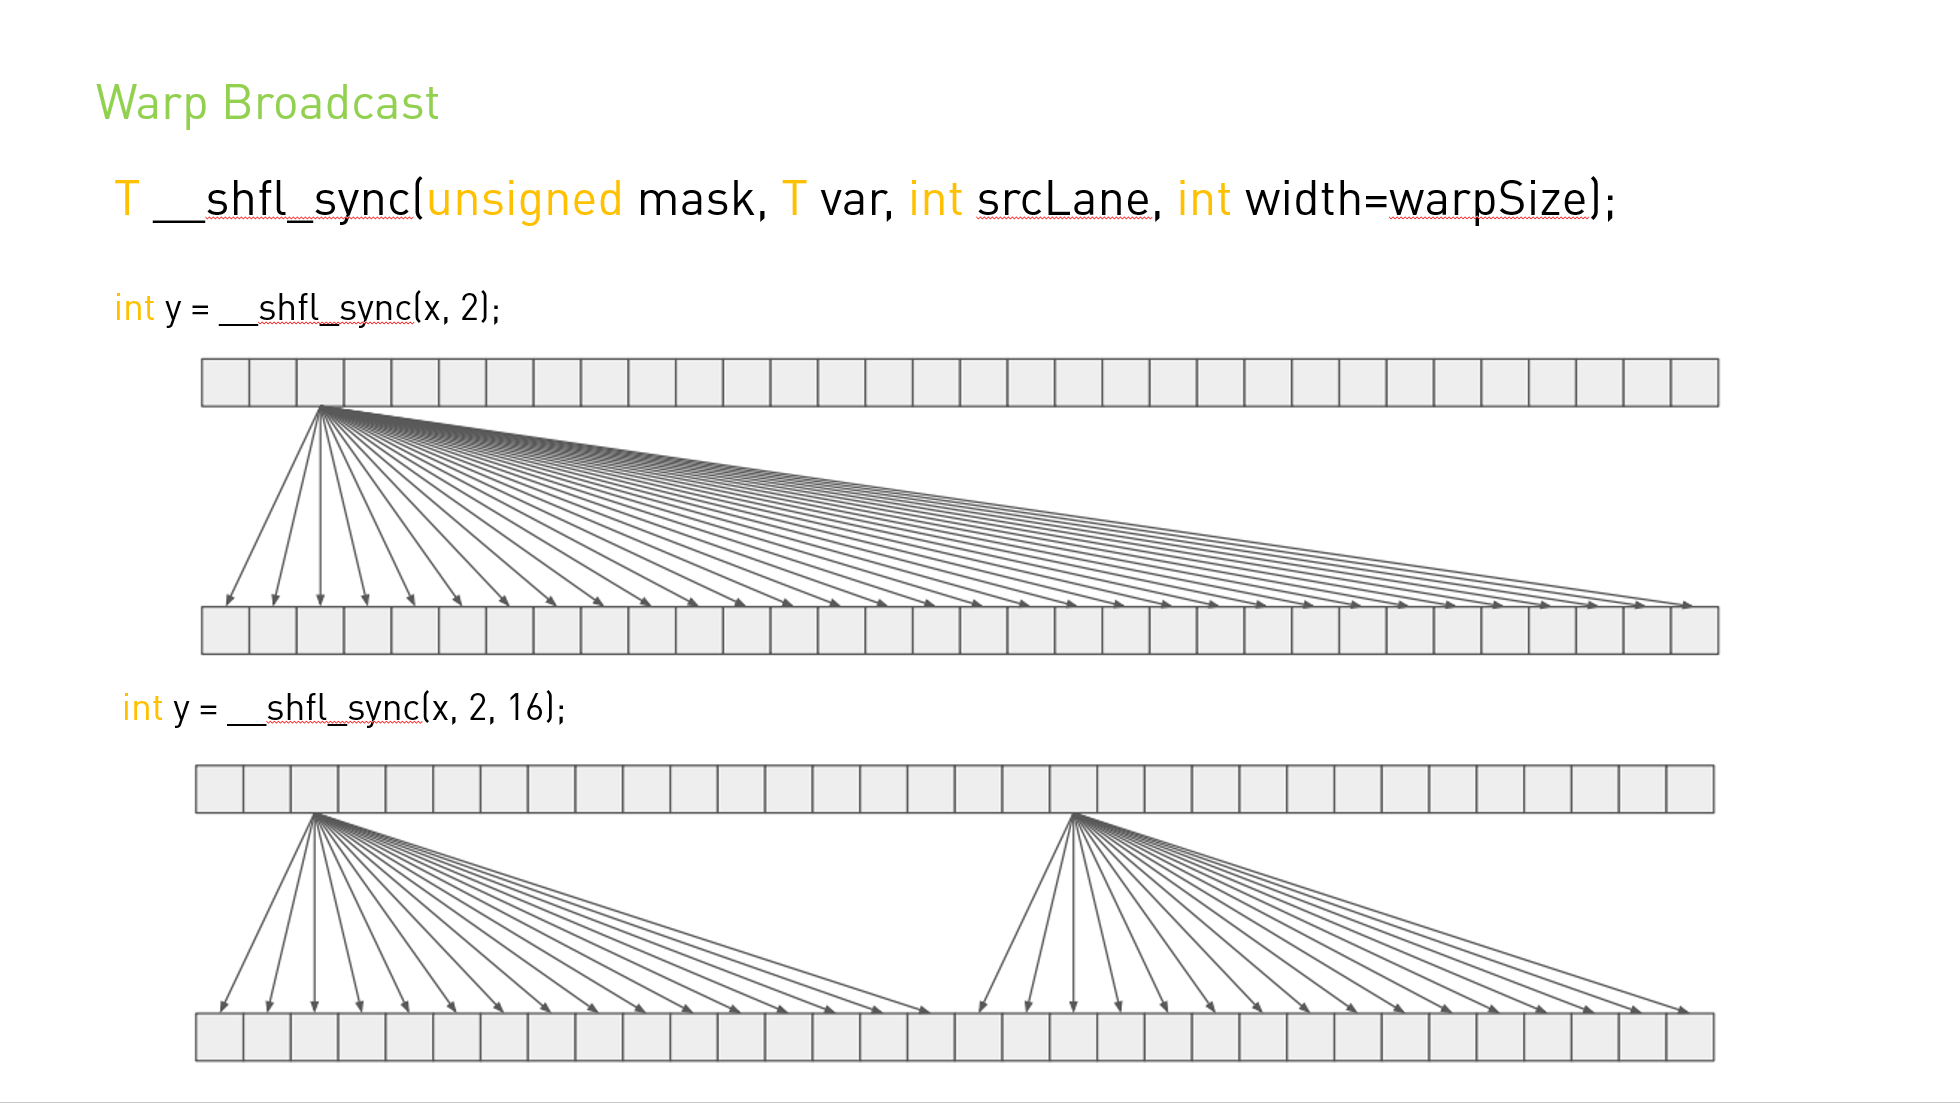
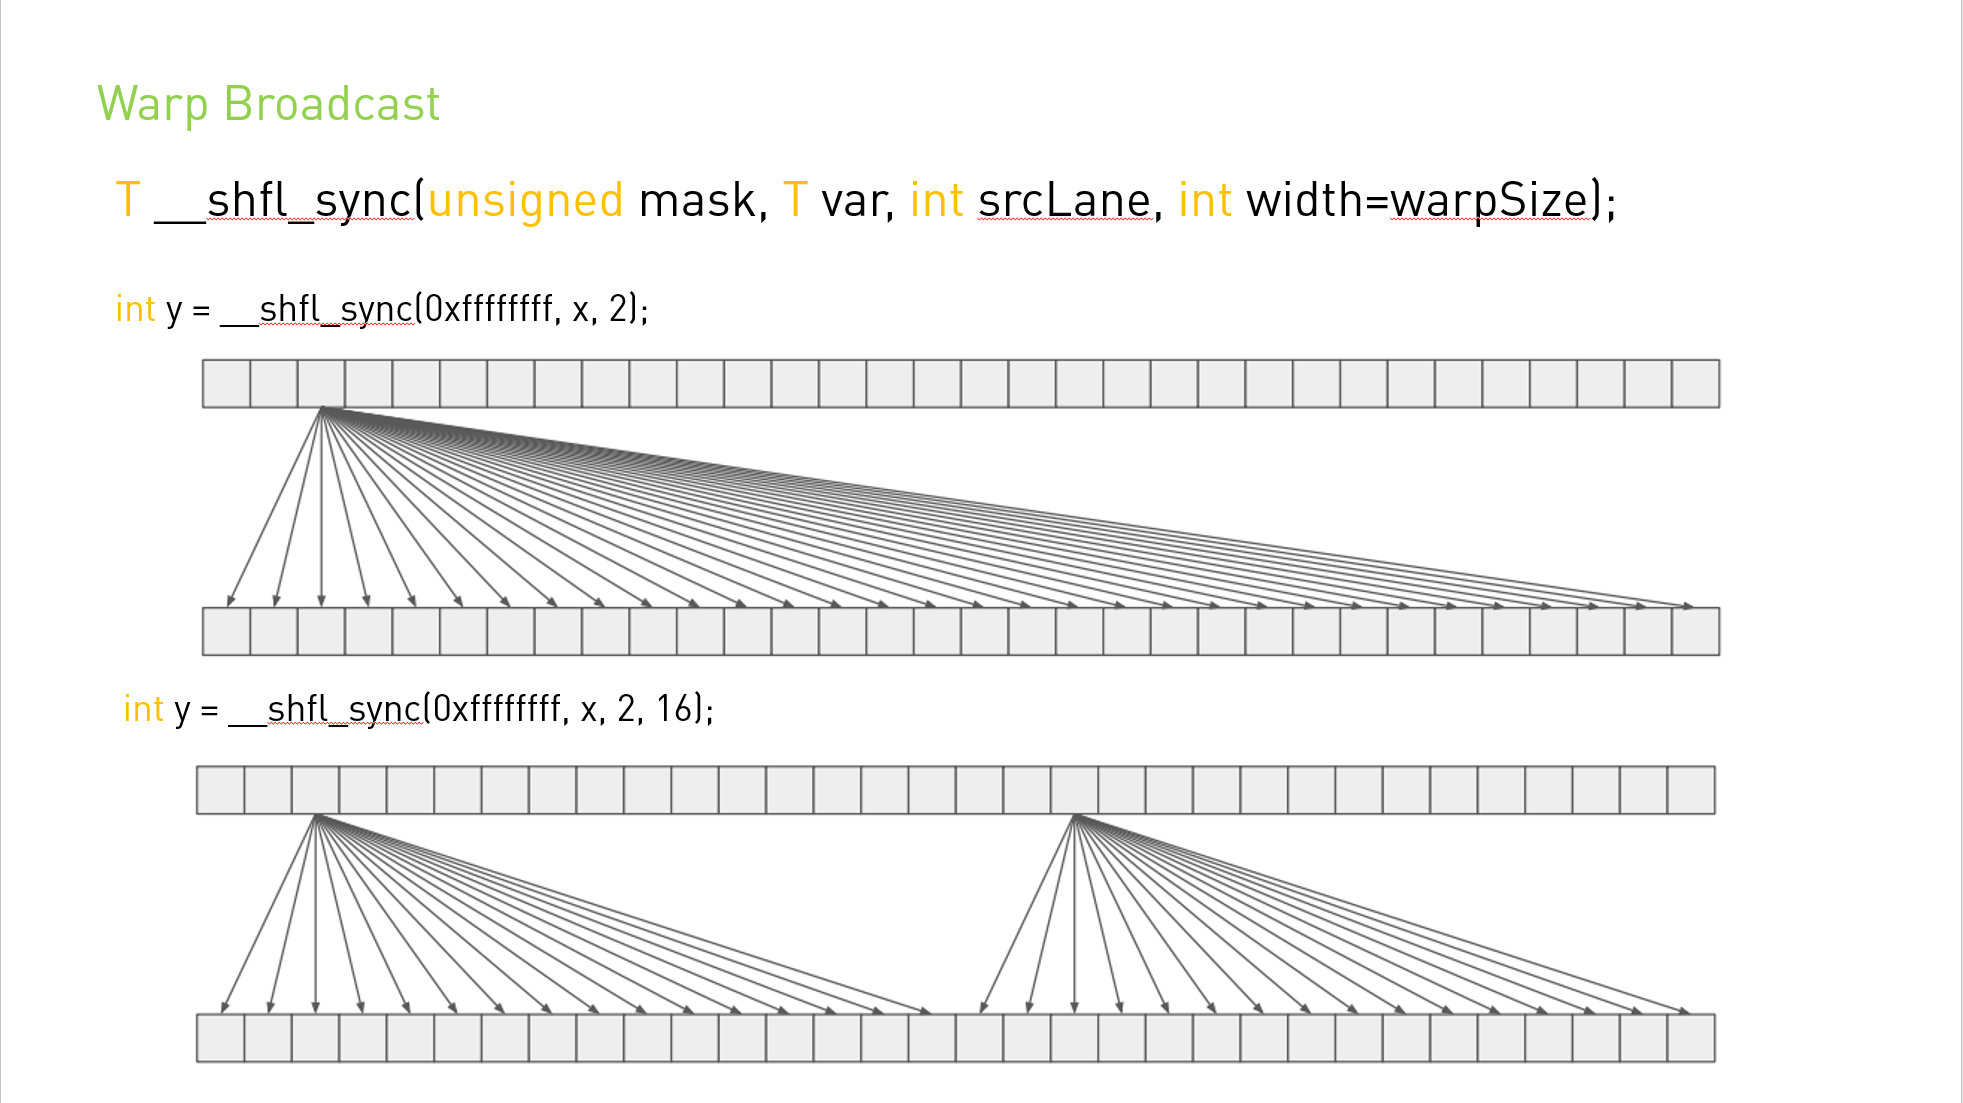
Ken He

diff --git a/附录B对C++扩展的详细描述/附录B对C++扩展的详细描述.md b/附录B对C++扩展的详细描述/附录B对C++扩展的详细描述.md
@@ -1506,6 +1506,9 @@ warp 中的线程称为通道(lanes)，并且可能具有介于 0 和 warpSize-1
 `__shfl_xor_sync()` 通过对调用者的通道 ID 与 `laneMask` 执行按位异或来计算源通道 ID：返回结果通道 ID 所持有的 `var` 的值。 如果宽度小于warpSize，那么每组宽度连续的线程都能够访问早期线程组中的元素，但是如果它们尝试访问后面线程组中的元素，则将返回他们自己的`var`值。 这种模式实现了一种蝶式寻址模式，例如用于树规约和广播。
 ![shufl_xor.png](shufl_xor.png)
 
+新的 `*_sync shfl` 内部函数采用一个掩码，指示参与调用的线程。 必须为每个参与线程设置一个表示线程通道 ID 的位，以确保它们在硬件执行内部函数之前正确收敛。 掩码中命名的所有非退出线程必须使用相同的掩码执行相同的内在函数，否则结果未定义。
+
+
 
 
 
